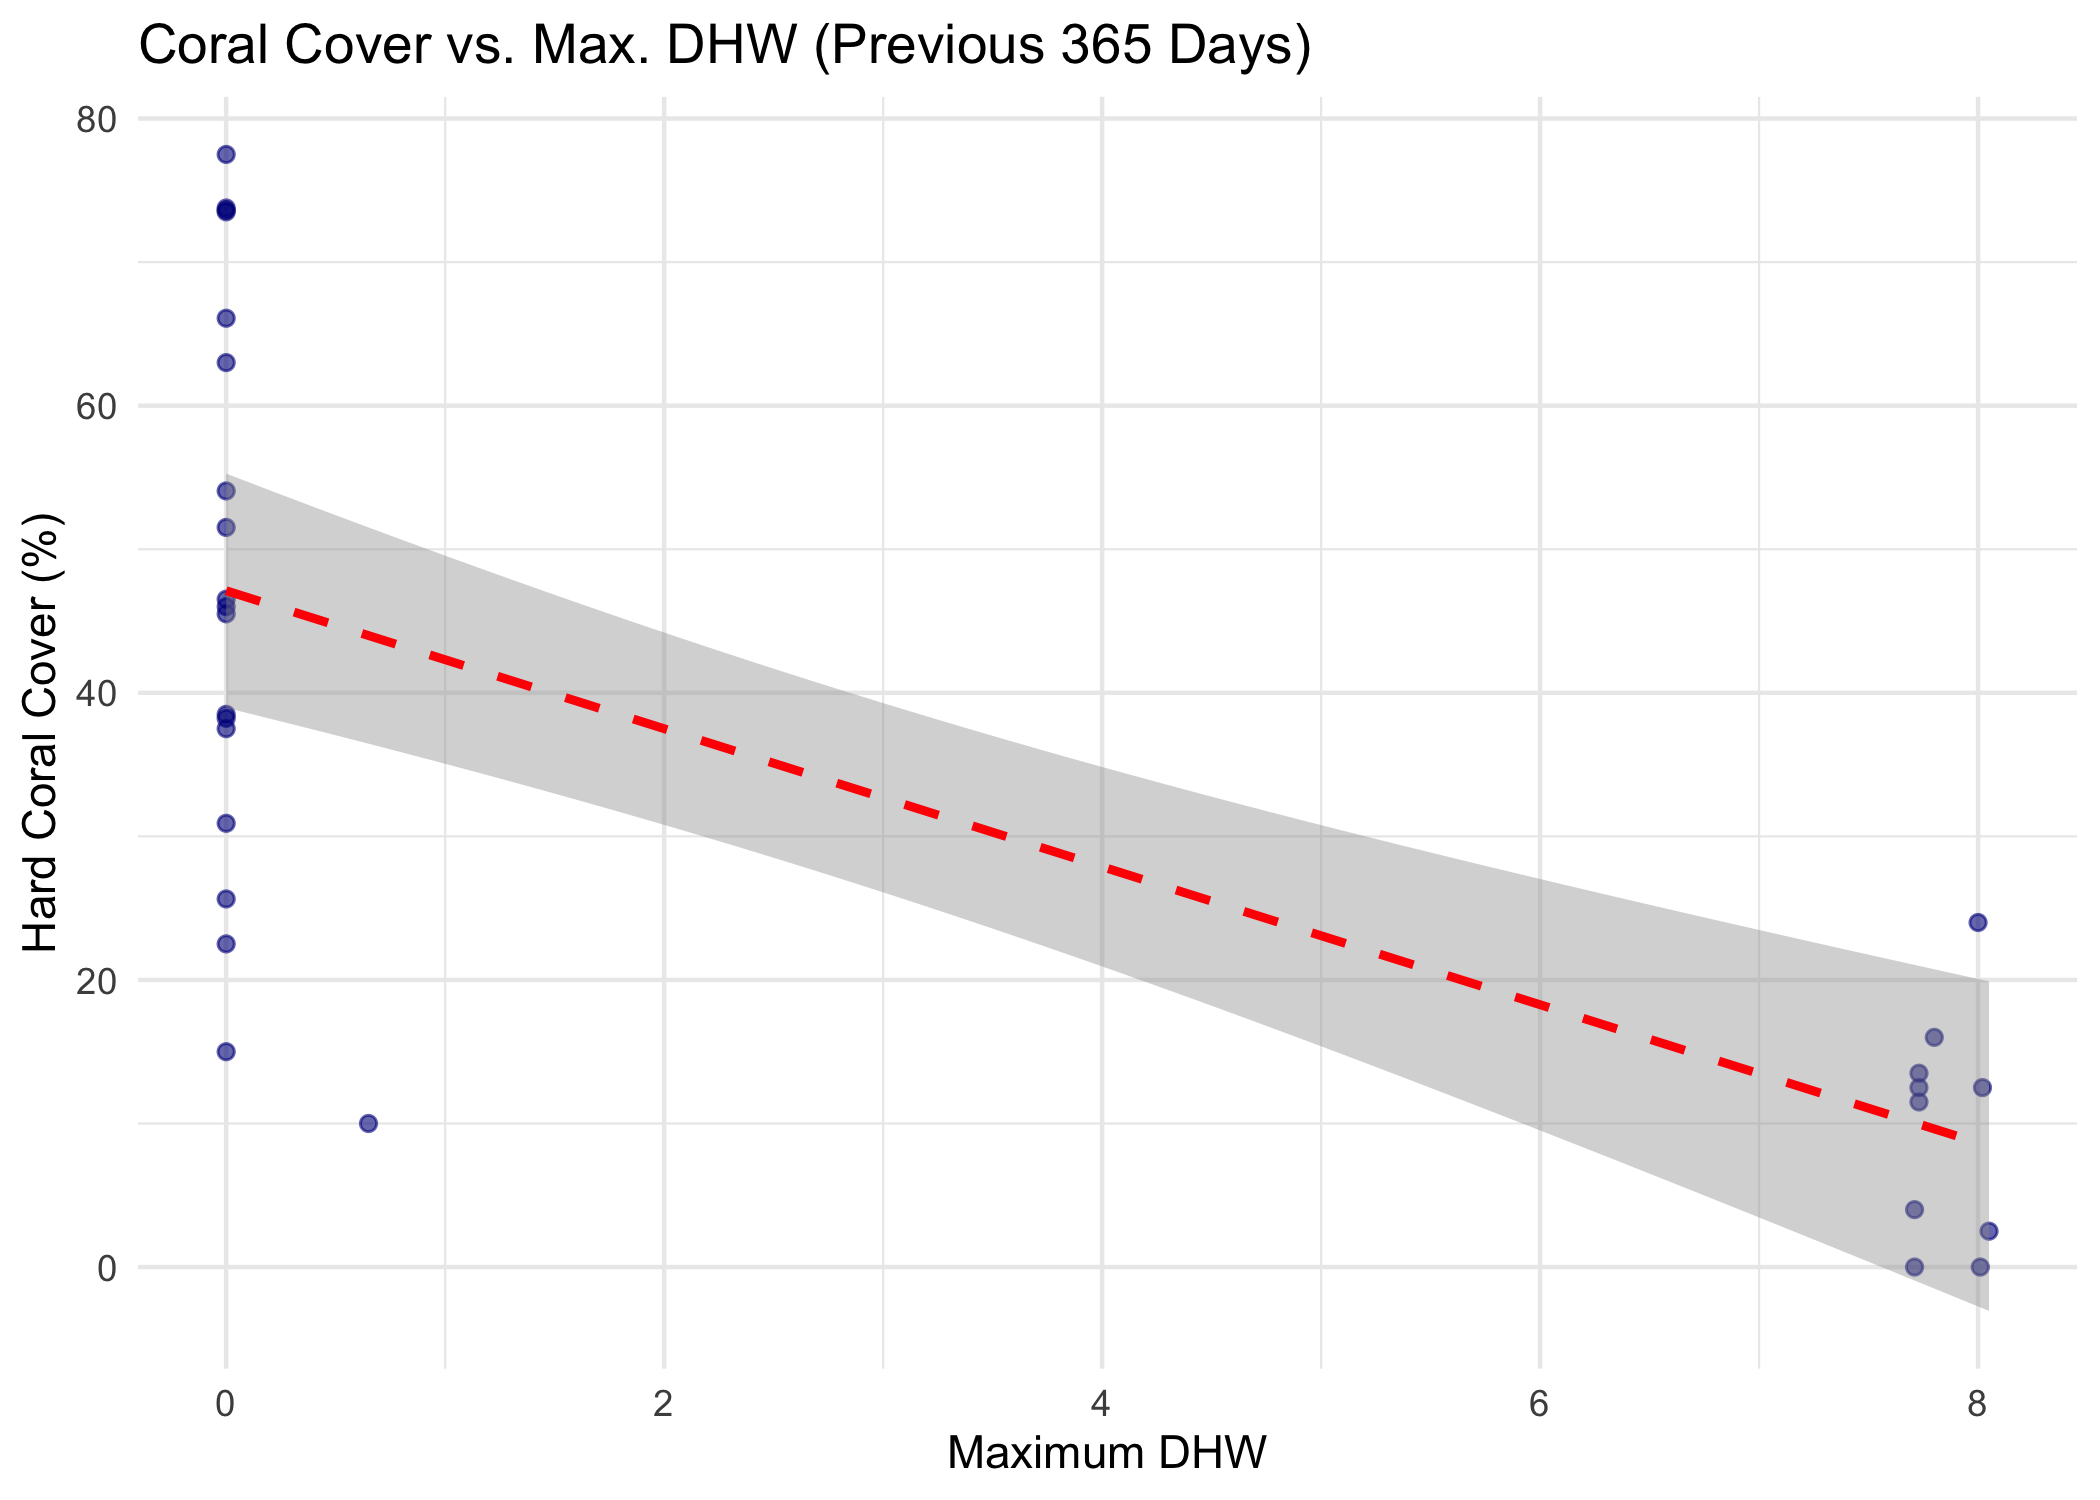
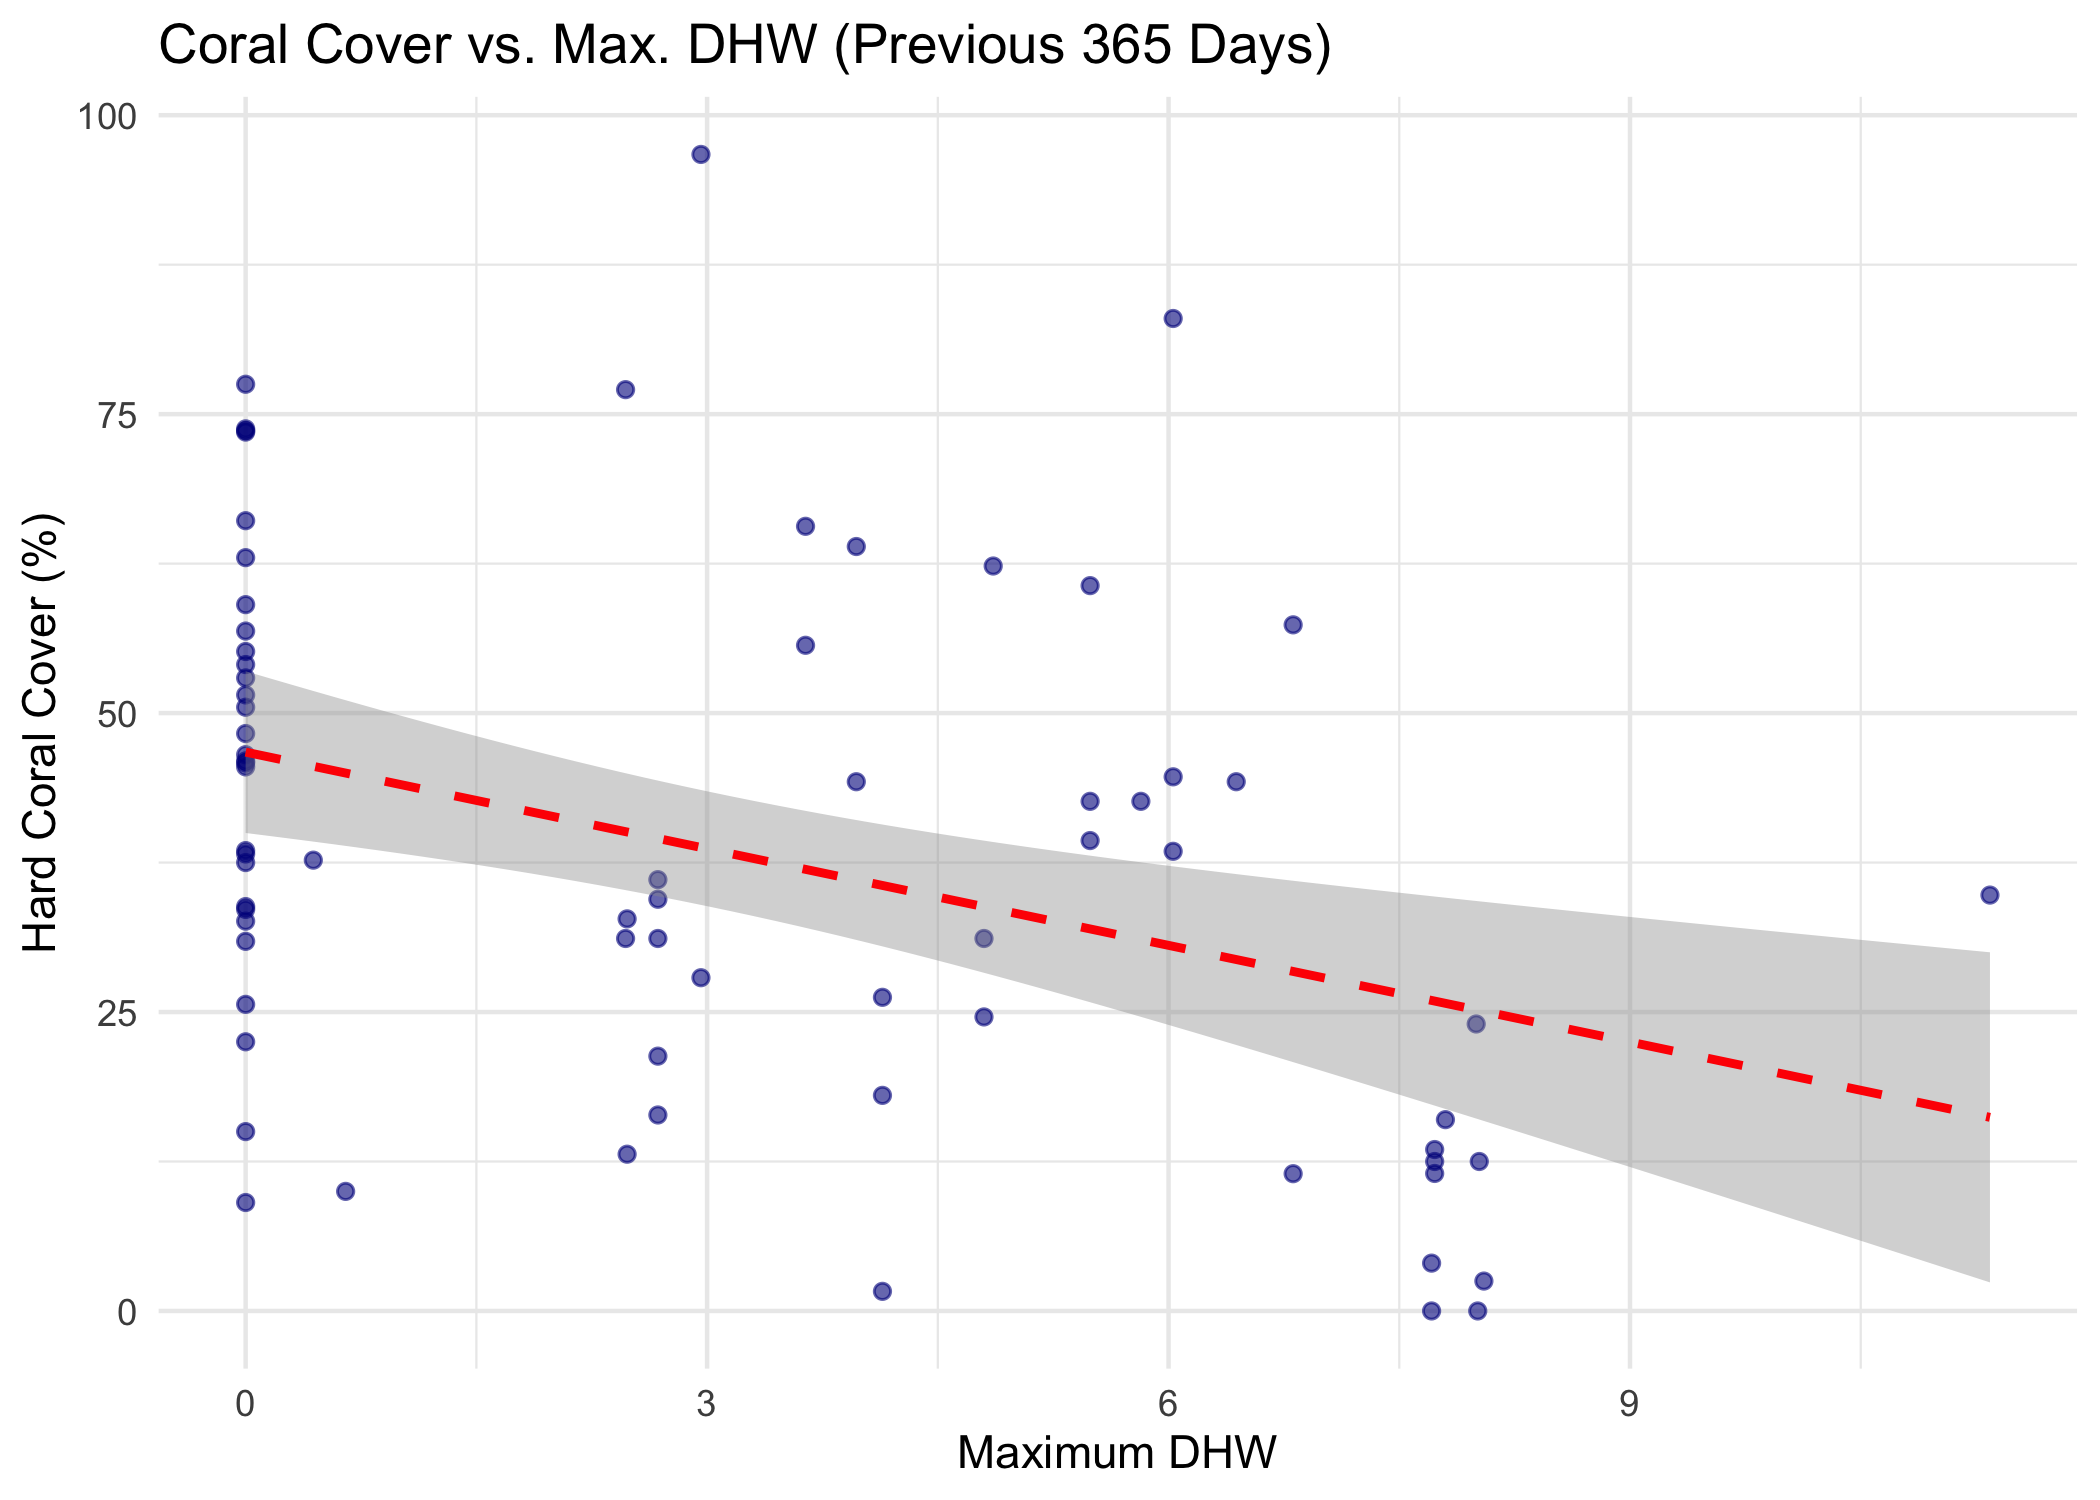
Update example to show new covariates formatting

diff --git a/scratch/analysis.md b/scratch/analysis.md
@@ -41,21 +41,21 @@ gfcr_summary_sampleevents <- summary_sampleevents %>%
 gfcr_summary_sampleevents
 ```
 
-    ## # A tibble: 29 × 377
+    ## # A tibble: 73 × 380
     ##    project_id   project tags  country site_id site  latitude longitude reef_type
     ##    <chr>        <chr>   <chr> <chr>   <chr>   <chr>    <dbl>     <dbl> <chr>    
-    ##  1 54d68642-48… SLCRI … Inte… Sri La… 4affc2… Bar …     8.41      79.7 patch    
-    ##  2 54d68642-48… SLCRI … Inte… Sri La… e61f1d… Bar …     8.37      79.7 patch    
-    ##  3 54d68642-48… SLCRI … Inte… Sri La… 168b07… Hipo…     8.27      79.7 patch    
-    ##  4 54d68642-48… SLCRI … Inte… Sri La… 51f953… Kand…     8.25      79.7 patch    
-    ##  5 54d68642-48… SLCRI … Inte… Sri La… 630643… Kuda…     8.24      79.7 patch    
-    ##  6 54d68642-48… SLCRI … Inte… Sri La… 1363cc… Kuda…     8.24      79.7 patch    
-    ##  7 54d68642-48… SLCRI … Inte… Sri La… 3d49dc… Sea …     8.17      79.7 fringing 
-    ##  8 54d68642-48… SLCRI … Inte… Sri La… 3d49dc… Sea …     8.17      79.7 fringing 
-    ##  9 54d68642-48… SLCRI … Inte… Sri La… 0c41df… St. …     8.14      79.7 patch    
-    ## 10 54d68642-48… SLCRI … Inte… Sri La… 74f31a… Thal…     8.12      79.7 patch    
-    ## # ℹ 19 more rows
-    ## # ℹ 368 more variables: reef_zone <chr>, reef_exposure <chr>,
+    ##  1 8a747031-4e… Invest… Unit… Fiji    2ecee0… GA1      -16.5      179. barrier  
+    ##  2 8a747031-4e… Invest… Unit… Fiji    4f1394… GA2      -16.5      179. barrier  
+    ##  3 8a747031-4e… Invest… Unit… Fiji    f3ae80… GA3      -16.5      179. barrier  
+    ##  4 8a747031-4e… Invest… Unit… Fiji    35cbcc… GA4      -16.6      179. barrier  
+    ##  5 8a747031-4e… Invest… Unit… Fiji    53220e… GA5      -16.6      179. barrier  
+    ##  6 8a747031-4e… Invest… Unit… Fiji    2f53e7… GA6      -16.6      179. fringing 
+    ##  7 8a747031-4e… Invest… Unit… Fiji    4e28c5… QR1      -16.1      180. barrier  
+    ##  8 8a747031-4e… Invest… Unit… Fiji    14b477… QR2      -16.1      180. barrier  
+    ##  9 8a747031-4e… Invest… Unit… Fiji    687440… QR3      -16.2      180. barrier  
+    ## 10 8a747031-4e… Invest… Unit… Fiji    fd9428… QR4      -16.2      180. barrier  
+    ## # ℹ 63 more rows
+    ## # ℹ 371 more variables: reef_zone <chr>, reef_exposure <chr>,
     ## #   management_id <chr>, management <chr>, management_est_year <int>,
     ## #   management_size <dbl>, management_parties <chr>,
     ## #   management_compliance <chr>, management_rules <chr>, sample_date <date>,
@@ -76,12 +76,15 @@ gfcr_summary_sampleevents %>%
   )
 ```
 
-    ## # A tibble: 3 × 5
-    ##   project                      tags       country n_sites average_hard_coral_c…¹
-    ##   <chr>                        <chr>      <chr>     <int>                  <dbl>
-    ## 1 SLCRI Bar Reef Seascape      Internati… Sri La…      11                   9.68
-    ## 2 SLCRI Kayankerni Seascape    Global Fu… Sri La…      11                  44.4 
-    ## 3 SLCRI Pigeon Island Seascape Global Fu… Sri La…       7                  55.9 
+    ## # A tibble: 6 × 5
+    ##   project                           tags  country n_sites average_hard_coral_c…¹
+    ##   <chr>                             <chr> <chr>     <int>                  <dbl>
+    ## 1 Investing in Coral Reefs and the… Unit… Fiji         27                  38.0 
+    ## 2 Maldives RREEF (GFCR)             Glob… Maldiv…      11                  43.4 
+    ## 3 SLCRI Bar Reef Seascape           Inte… Sri La…      11                   9.68
+    ## 4 SLCRI Kayankerni Seascape         Glob… Sri La…      11                  44.4 
+    ## 5 SLCRI Pigeon Island Seascape      Glob… Sri La…       7                  55.9 
+    ## 6 Terumbu Karang Sehat Indonesia P… Cons… Indone…       6                  53.7 
     ## # ℹ abbreviated name: ¹average_hard_coral_cover
 
 # Get covariates for these sites
@@ -117,20 +120,20 @@ gfcr_summary_sampleevents %>%
   distinct(project, site, latitude, longitude, sample_date)
 ```
 
-    ## # A tibble: 29 × 5
-    ##    project                 site                  latitude longitude sample_date
-    ##    <chr>                   <chr>                    <dbl>     <dbl> <date>     
-    ##  1 SLCRI Bar Reef Seascape Bar Reef Deep             8.41      79.7 2025-03-16 
-    ##  2 SLCRI Bar Reef Seascape Bar Reef Shallow          8.37      79.7 2025-03-16 
-    ##  3 SLCRI Bar Reef Seascape Hipolis Reef Deep         8.27      79.7 2025-03-20 
-    ##  4 SLCRI Bar Reef Seascape KandaKuliya Reef Deep     8.25      79.7 2025-03-19 
-    ##  5 SLCRI Bar Reef Seascape Kudawa reef Deep          8.24      79.7 2025-03-17 
-    ##  6 SLCRI Bar Reef Seascape Kudawa Reef Shallow       8.24      79.7 2025-03-17 
-    ##  7 SLCRI Bar Reef Seascape Sea Guard Reef Deep       8.17      79.7 2024-03-19 
-    ##  8 SLCRI Bar Reef Seascape Sea Guard Reef Deep       8.17      79.7 2025-03-19 
-    ##  9 SLCRI Bar Reef Seascape St. Annes Reef Deep       8.14      79.7 2025-03-20 
-    ## 10 SLCRI Bar Reef Seascape Thalawila Reef Deep       8.12      79.7 2025-03-15 
-    ## # ℹ 19 more rows
+    ## # A tibble: 73 × 5
+    ##    project                                  site  latitude longitude sample_date
+    ##    <chr>                                    <chr>    <dbl>     <dbl> <date>     
+    ##  1 Investing in Coral Reefs and the Blue E… GA1      -16.5      179. 2025-10-08 
+    ##  2 Investing in Coral Reefs and the Blue E… GA2      -16.5      179. 2025-10-08 
+    ##  3 Investing in Coral Reefs and the Blue E… GA3      -16.5      179. 2025-10-09 
+    ##  4 Investing in Coral Reefs and the Blue E… GA4      -16.6      179. 2025-10-09 
+    ##  5 Investing in Coral Reefs and the Blue E… GA5      -16.6      179. 2025-10-08 
+    ##  6 Investing in Coral Reefs and the Blue E… GA6      -16.6      179. 2025-10-08 
+    ##  7 Investing in Coral Reefs and the Blue E… QR1      -16.1      180. 2025-09-24 
+    ##  8 Investing in Coral Reefs and the Blue E… QR2      -16.1      180. 2025-09-24 
+    ##  9 Investing in Coral Reefs and the Blue E… QR3      -16.2      180. 2025-09-24 
+    ## 10 Investing in Coral Reefs and the Blue E… QR4      -16.2      180. 2025-09-25 
+    ## # ℹ 63 more rows
 
 The `summary_zonal_stats()` function takes the site latitude and
 longitude, as well as the survey date, to find the data at that site for
@@ -160,20 +163,20 @@ max_dhw <- max_dhw %>%
 max_dhw
 ```
 
-    ## # A tibble: 29 × 6
+    ## # A tibble: 73 × 6
     ##    project                 country site  sample_date hard_coral_cover covariates
     ##    <chr>                   <chr>   <chr> <date>                 <dbl> <list>    
-    ##  1 SLCRI Bar Reef Seascape Sri La… Bar … 2025-03-16              12.5 <tibble>  
-    ##  2 SLCRI Bar Reef Seascape Sri La… Bar … 2025-03-16               0   <tibble>  
-    ##  3 SLCRI Bar Reef Seascape Sri La… Hipo… 2025-03-20               2.5 <tibble>  
-    ##  4 SLCRI Bar Reef Seascape Sri La… Kand… 2025-03-19              24   <tibble>  
-    ##  5 SLCRI Bar Reef Seascape Sri La… Kuda… 2025-03-17               4   <tibble>  
-    ##  6 SLCRI Bar Reef Seascape Sri La… Kuda… 2025-03-17               0   <tibble>  
-    ##  7 SLCRI Bar Reef Seascape Sri La… Sea … 2024-03-19              10   <tibble>  
-    ##  8 SLCRI Bar Reef Seascape Sri La… Sea … 2025-03-19              16   <tibble>  
-    ##  9 SLCRI Bar Reef Seascape Sri La… St. … 2025-03-20              13.5 <tibble>  
-    ## 10 SLCRI Bar Reef Seascape Sri La… Thal… 2025-03-15              11.5 <tibble>  
-    ## # ℹ 19 more rows
+    ##  1 Investing in Coral Ree… Fiji    GA1   2025-10-08              62.3 <tibble>  
+    ##  2 Investing in Coral Ree… Fiji    GA2   2025-10-08              31.2 <tibble>  
+    ##  3 Investing in Coral Ree… Fiji    GA3   2025-10-09              24.6 <tibble>  
+    ##  4 Investing in Coral Ree… Fiji    GA4   2025-10-09              42.6 <tibble>  
+    ##  5 Investing in Coral Ree… Fiji    GA5   2025-10-08              11.5 <tibble>  
+    ##  6 Investing in Coral Ree… Fiji    GA6   2025-10-08              57.4 <tibble>  
+    ##  7 Investing in Coral Ree… Fiji    QR1   2025-09-24              27.9 <tibble>  
+    ##  8 Investing in Coral Ree… Fiji    QR2   2025-09-24              96.7 <tibble>  
+    ##  9 Investing in Coral Ree… Fiji    QR3   2025-09-24              77.0 <tibble>  
+    ## 10 Investing in Coral Ree… Fiji    QR4   2025-09-25              13.1 <tibble>  
+    ## # ℹ 63 more rows
 
 ## Expand covariates
 
@@ -182,24 +185,48 @@ they are, you can see they contain start and end date of the data used
 for the covariates, the band, and the summarised value.
 
 ``` r
+max_dhw %>%
+  select(covariates) %>%
+  unnest(covariates)
+```
+
+    ## # A tibble: 73 × 6
+    ##    covariate            start_date end_date    band statistic value
+    ##    <chr>                <date>     <date>     <dbl> <chr>     <dbl>
+    ##  1 noaa-monthly-max-dhw 2024-11-01 2025-04-01     1 max        4.86
+    ##  2 noaa-monthly-max-dhw 2024-11-01 2025-04-01     1 max        4.80
+    ##  3 noaa-monthly-max-dhw 2024-11-01 2025-04-01     1 max        4.80
+    ##  4 noaa-monthly-max-dhw 2024-11-01 2025-04-01     1 max        5.82
+    ##  5 noaa-monthly-max-dhw 2024-11-01 2025-04-01     1 max        6.81
+    ##  6 noaa-monthly-max-dhw 2024-11-01 2025-04-01     1 max        6.81
+    ##  7 noaa-monthly-max-dhw 2024-10-01 2025-04-01     1 max        2.96
+    ##  8 noaa-monthly-max-dhw 2024-10-01 2025-04-01     1 max        2.96
+    ##  9 noaa-monthly-max-dhw 2024-10-01 2025-04-01     1 max        2.47
+    ## 10 noaa-monthly-max-dhw 2024-10-01 2025-04-01     1 max        2.48
+    ## # ℹ 63 more rows
+
+``` r
 max_dhw <- max_dhw %>%
   unnest(covariates)
 
-max_dhw %>%
-  glimpse()
+max_dhw
 ```
 
-    ## Rows: 29
-    ## Columns: 9
-    ## $ project               <chr> "SLCRI Bar Reef Seascape", "SLCRI Bar Reef Seasc…
-    ## $ country               <chr> "Sri Lanka", "Sri Lanka", "Sri Lanka", "Sri Lank…
-    ## $ site                  <chr> "Bar Reef Deep", "Bar Reef Shallow", "Hipolis Re…
-    ## $ sample_date           <date> 2025-03-16, 2025-03-16, 2025-03-20, 2025-03-19,…
-    ## $ hard_coral_cover      <dbl> 12.50, 0.00, 2.50, 24.00, 4.00, 0.00, 10.00, 16.…
-    ## $ covariates_start_date <date> 2024-04-01, 2024-04-01, 2024-04-01, 2024-04-01,…
-    ## $ covariates_end_date   <date> 2025-03-01, 2025-03-01, 2025-03-01, 2025-03-01,…
-    ## $ band                  <chr> "band_1", "band_1", "band_1", "band_1", "band_1"…
-    ## $ max                   <dbl> 8.02, 8.01, 8.05, 8.00, 7.71, 7.71, 0.65, 7.80, …
+    ## # A tibble: 73 × 11
+    ##    project       country site  sample_date hard_coral_cover covariate start_date
+    ##    <chr>         <chr>   <chr> <date>                 <dbl> <chr>     <date>    
+    ##  1 Investing in… Fiji    GA1   2025-10-08              62.3 noaa-mon… 2024-11-01
+    ##  2 Investing in… Fiji    GA2   2025-10-08              31.2 noaa-mon… 2024-11-01
+    ##  3 Investing in… Fiji    GA3   2025-10-09              24.6 noaa-mon… 2024-11-01
+    ##  4 Investing in… Fiji    GA4   2025-10-09              42.6 noaa-mon… 2024-11-01
+    ##  5 Investing in… Fiji    GA5   2025-10-08              11.5 noaa-mon… 2024-11-01
+    ##  6 Investing in… Fiji    GA6   2025-10-08              57.4 noaa-mon… 2024-11-01
+    ##  7 Investing in… Fiji    QR1   2025-09-24              27.9 noaa-mon… 2024-10-01
+    ##  8 Investing in… Fiji    QR2   2025-09-24              96.7 noaa-mon… 2024-10-01
+    ##  9 Investing in… Fiji    QR3   2025-09-24              77.0 noaa-mon… 2024-10-01
+    ## 10 Investing in… Fiji    QR4   2025-09-25              13.1 noaa-mon… 2024-10-01
+    ## # ℹ 63 more rows
+    ## # ℹ 4 more variables: end_date <date>, band <dbl>, statistic <chr>, value <dbl>
 
 # Visualize
 
@@ -210,7 +237,7 @@ Finally, visualize coral cover against the maximum mean DHW for the past
 ggplot(
   max_dhw,
   aes(
-    x = max,
+    x = value,
     y = hard_coral_cover
   )
 ) +
